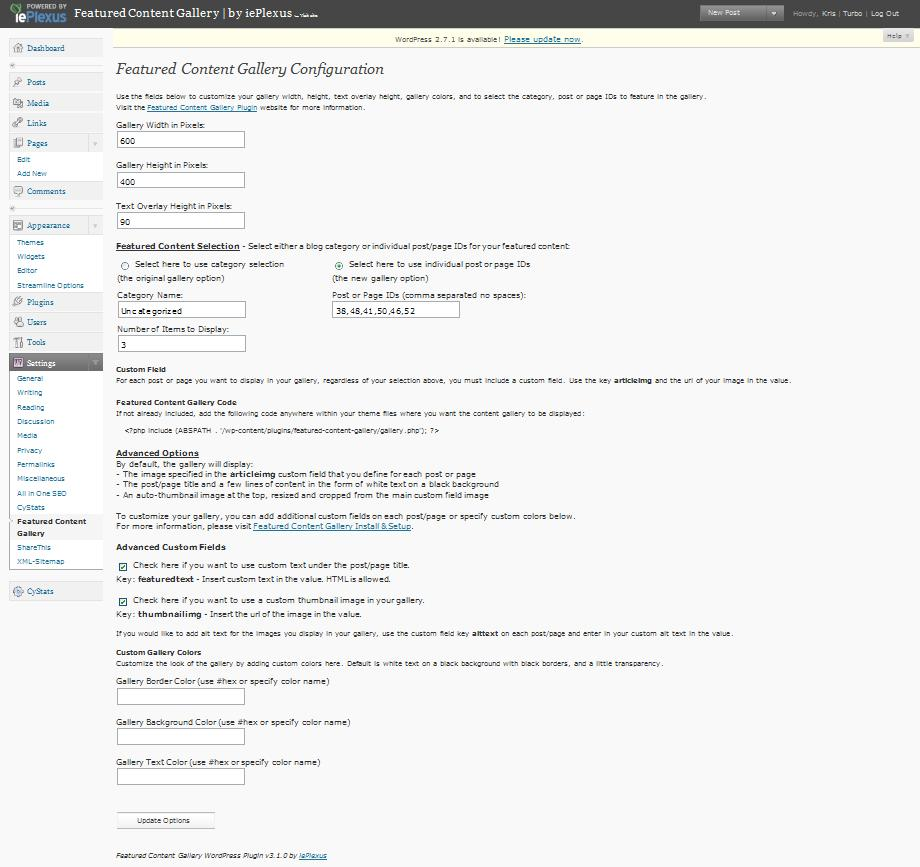
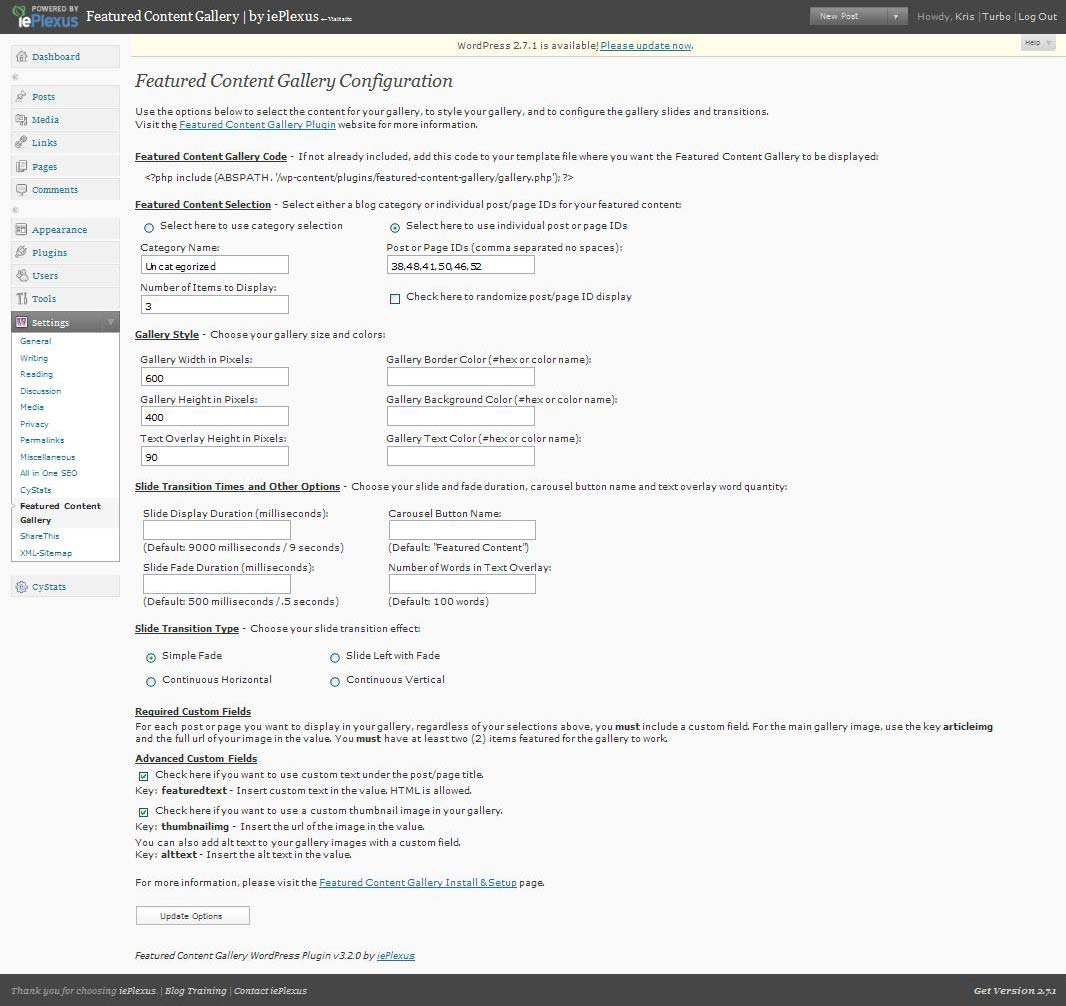
git-svn-id: https://plugins.svn.wordpress.org/featured-content-gallery/trunk@100797 b8457f37-d9ea-0310-8a92-e5e31aec5664

Changed region(s): [[0.0, 0.0, 1.0, 1.0], [0.7609, 0.436, 0.8522, 0.4671]]

diff --git a/options.php b/options.php
@@ -4,125 +4,169 @@ $location = $options_page; // Form Action URI
 
 <div class="wrap">
 	<h2>Featured Content Gallery Configuration</h2>
-	<p>Use the fields below to customize your gallery width, height, text overlay height, gallery colors, and to select the category, post or page IDs to feature in the gallery.<br /> 
+	<p>Use the options below to select the content for your gallery, to style your gallery, and to configure the gallery slides and transitions.<br /> 
     Visit the <a href="http://www.featuredcontentgallery.com">Featured Content Gallery Plugin</a> website for more information.</p>
-	
-    <div style="margin-left:0px;">
-    <form method="post" action="options.php"><?php wp_nonce_field('update-options'); ?>
+        <form method="post" action="options.php"><?php wp_nonce_field('update-options'); ?>
 		<fieldset name="general_options" class="options">
-
-        Gallery Width in Pixels:<br />
-		<div style="margin:0;padding:0;">
-        <input name="gallery-width" id="gallery-width" size="25" value="<?php echo get_option('gallery-width'); ?>"></input>
-        </div><br />
-        
-        Gallery Height in Pixels:<br />
-		<div style="margin:0;padding:0;">
-        <input name="gallery-height" id="gallery-height" size="25" value="<?php echo get_option('gallery-height'); ?>"></input> 
-        </div><br />
-        
-        Text Overlay Height in Pixels:<br />
-		<div style="margin:0;padding:0;">
-        <input name="gallery-info" id="gallery-info" size="25" value="<?php echo get_option('gallery-info'); ?>"></input> 
-        </div><br />
-        
+        <div style="padding-top: 15px"></div>
+        <u><strong>Featured Content Gallery Code</strong></u> - If not already included, add this code to your template file where you want the Featured Content Gallery to be displayed:<br />
+        <blockquote>&lt;&#63;php include &#40;ABSPATH &#46; '/wp-content/plugins/featured-content-gallery/gallery.php'&#41;&#59; &#63;&#62;</blockquote>
+        <div style="padding-top: 10px"></div>
         <?php  $galleryoldway = (get_option('gallery-way') == 'old' || get_option('gallery-way') == '') ? "checked" : ""; 
         		   $gallerynewway = get_option('gallery-way') == 'new' ? "checked" : ""; 
         ?>
         <u><strong>Featured Content Selection</strong></u> - Select either a blog category or individual post/page IDs for your featured content:<br />
-        <div style="padding-top: 10px"></div><div>
-        <table width="688" border="1" cellpadding="0">
-<tr>
-    			<td width="325">
-    <input type="radio" name="gallery-way" id="gallery-way" size="25" value="old"  <?php print $galleryoldway; ?>>
-        			Select here to use category selection<br />
-        <span class="style1">(the original gallery option)</span>		</td>
-  		  <td width="351">
-<input type="radio" name="gallery-way" id="gallery-way" size="25" value="new"  <?php print $gallerynewway; ?>>
-        			Select here to use individual post or page IDs<br />
-        <span class="style1">(the new gallery option)</span>        </td>
-		  </tr>
-  			<tr>
-    			<td>
-                    <div style="padding-top: 7px"></div><div>
-                	Category Name:<br />
-        			<input name="gallery-category" id="gallery-category" size="25" value="<?php echo get_option('gallery-category'); ?>"></input> 
-                </td>
-    			<td>
-                    <div style="padding-top: 7px"></div>
-                    <div>
-          Post or Page IDs <span class="style1">(comma separated no spaces)</span>:<br />
+        <div style="padding-top: 5px"></div>
+        <table width="690" border="0" cellpadding="0" cellspacing="7">
+        <tr>
+    	<td width="330">
+        <input type="radio" name="gallery-way" id="gallery-way" size="25" value="old"  <?php print $galleryoldway; ?>>
+        			Select here to use category selection
+        </td>
+  		<td width="360">
+        <input type="radio" name="gallery-way" id="gallery-way" size="25" value="new"  <?php print $gallerynewway; ?>>
+        			Select here to use individual post or page IDs
+        </td>
+		</tr>
+  	    <tr>
+    	<td>
+        Category Name:<br />
+                    <input name="gallery-category" id="gallery-category" size="25" value="<?php echo get_option('gallery-category'); ?>"></input> 
+        </td>
+    	<td>
+        Post or Page IDs <span class="style1">(comma separated no spaces)</span>:<br />
                     <input name="gallery-items-pages" id="gallery-items-pages" size="25" value="<?php echo get_option('gallery-items-pages'); ?>"></input>
-                </td>
-  			</tr>
-  			<tr>
-    			<td>
-                    <div style="padding-top: 5px"></div><div>
-                	Number of Items to Display:<br />
+        </td>
+  	    </tr>
+  	    <tr>
+        <td>
+        Number of Items to Display:<br />
         			<input name="gallery-items" id="gallery-items" size="25" value="<?php echo get_option('gallery-items'); ?>"></input> 
-                </td>
-    			<td>&nbsp;
-                	
-                </td>
-  			</tr>
+        </td>
+        <td>
+        <?php $checked3 = get_option('gallery-randomize-pages') ? "checked" : ""; ?>
+                    <input type="checkbox" name="gallery-randomize-pages" id="gallery-randomize-pages" <?php print $checked3 ?>> 
+        Check here to randomize post/page ID display
+        </td>
+  	    </tr>
 		</table>
-        
-        <p><strong>Custom Field</strong><br />
-        For each post or page you want to display in your gallery, regardless of your selection above, you must include a custom field. Use the key <strong>articleimg</strong> and the url of your image in the value.<br /><br />
-        
-        <strong>Featured Content Gallery Code</strong><br />
-        If not already included, add the following code anywhere within your theme files where you want the content gallery to be displayed:<br />
-		
-        <blockquote>&lt;&#63;php include &#40;ABSPATH &#46; '/wp-content/plugins/featured-content-gallery/gallery.php'&#41;&#59; &#63;&#62;</blockquote>
-        <div style="padding-top: 8px"></div>
-        <strong><u>Advanced Options</u></strong><br />
-        By default, the gallery will display:<br />
-        - The image specified in the <strong>articleimg</strong> custom field that you define for each post or page<br />
-        - The post/page title and a few lines of content in the form of white text on a black background<br />
-        - An auto-thumbnail image at the top, resized and cropped from the main custom field image<br /><br />
-        
-        To customize your gallery, you can add additional custom fields on each post/page or specify custom colors below.<br />
-        For more information, please visit  <a href="http://www.featuredcontentgallery.com/install-setup">Featured Content Gallery Install & Setup</a>.<br />
-        <br />
-        
-        <strong>Advanced Custom Fields</strong><br /></p>
-				<?php $checked1 = get_option('gallery-use-featured-content') ? "checked" : ""; ?>
-        <div style="margin:0;padding:0;">
+        <div style="padding-top: 10px"></div>
+        <u><strong>Gallery Style</strong></u> - Choose your gallery size and colors:<br />
+        <div style="padding-top: 10px"></div>
+        <table width="690" border="0" cellpadding="0" cellspacing="7">
+        <tr>
+    	<td width="330">
+        Gallery Width in Pixels:<br />
+        <input name="gallery-width" id="gallery-width" size="25" value="<?php echo get_option('gallery-width'); ?>"></input>
+        </td>
+  		<td width="360">
+        Gallery Border Color (#hex or color name):<br />
+        <input name="gallery-border-color" id="gallery-border-color" size="25" value="<?php echo get_option('gallery-border-color'); ?>"></input> 
+        </td>
+		</tr>
+  	    <tr>
+    	<td>
+        Gallery Height in Pixels:<br />
+        <input name="gallery-height" id="gallery-height" size="25" value="<?php echo get_option('gallery-height'); ?>"></input>
+        </td>
+    	<td>
+        Gallery Background Color (#hex or color name):<br />
+        <input name="gallery-bg-color" id="gallery-bg-color" size="25" value="<?php echo get_option('gallery-bg-color'); ?>"></input>   
+        </td>
+  	    </tr>
+  	    <tr>
+        <td>
+        Text Overlay Height in Pixels:<br />
+        <input name="gallery-info" id="gallery-info" size="25" value="<?php echo get_option('gallery-info'); ?>"></input> 
+        </td>
+        <td>
+        Gallery Text Color (#hex or color name):<br />
+        <input name="gallery-text-color" id="gallery-text-color" size="25" value="<?php echo get_option('gallery-text-color'); ?>"></input> 
+        </td>
+  	    </tr>
+		</table>
+        <div style="padding-top: 10px"></div>
+        <u><strong>Slide Transition Times and Other Options</strong></u> - Choose your slide and fade duration, carousel button name and text overlay word quantity:<br />
+        <div style="padding-top: 10px"></div>
+        <table width="690" border="0" cellpadding="0" cellspacing="10">
+        <tr>
+    	<td width="330">
+        Slide Display Duration (milliseconds):<br />
+        <input name="gallery-delay" id="gallery-delay" size="25" value="<?php echo get_option('gallery-delay'); ?>"></input><br />
+        (Default: 9000 milliseconds / 9 seconds)
+        </td>
+  		<td width="360">
+        Carousel Button Name:<br />
+        <input name="gallery-fcg-button" id="gallery-fcg-button" size="25" value="<?php echo get_option('gallery-fcg-button'); ?>"></input><br />
+        (Default: "Featured Content")
+        </td>
+		</tr>
+  	    <tr>
+    	<td>
+        Slide Fade Duration (milliseconds):<br />
+        <input name="gallery-fade-duration" id="gallery-fade-duration" size="25" value="<?php echo get_option('gallery-fade-duration'); ?>"></input><br />
+        (Default: 500 milliseconds / .5 seconds)
+        </td>
+    	<td>
+        Number of Words in Text Overlay:<br />
+        <input name="gallery-rss-word-quantity" id="gallery-rss-word-quantity" size="25" value="<?php echo get_option('gallery-rss-word-quantity'); ?>"></input><br />
+        (Default: 100 words)
+        </td>
+  	    </tr>
+		</table>
+        <div style="padding-top: 10px"></div>
+        <u><strong>Slide Transition Type</strong></u> - Choose your slide transition effect:<br />
+        <div style="padding-top: 10px"></div>
+        <?php  $galleryfade = (get_option('gallery-default-transaction') == 'fade' || get_option('gallery-default-transaction') == '') ? "checked" : ""; 
+        	   $galleryfadeslideleft = get_option('gallery-default-transaction') == 'fadeslideleft' ? "checked" : "";
+        	   $gallerycontinuoushorizontal = get_option('gallery-default-transaction') == 'continuoushorizontal' ? "checked" : "";  
+        	   $gallerycontinuousvertical = get_option('gallery-default-transaction') == 'continuousvertical' ? "checked" : ""; 
+        ?>
+        <table width="500" border="0" cellpadding="0" cellspacing="10">
+        <tr>
+    	<td width="250">
+        <input type="radio" name="gallery-default-transaction" id="gallery-default-transaction" size="25" value="fade"  <?php print $galleryfade; ?>> Simple Fade
+        </td>
+  		<td width="250">
+		<input type="radio" name="gallery-default-transaction" id="gallery-default-transaction" size="25" value="fadeslideleft"  <?php print $galleryfadeslideleft; ?>> Slide Left with Fade
+        </td>
+		</tr>
+  	    <tr>
+    	<td>
+		<input type="radio" name="gallery-default-transaction" id="gallery-default-transaction" size="25" value="continuoushorizontal"  <?php print $gallerycontinuoushorizontal; ?>> Continuous Horizontal
+        </td>
+    	<td>
+		<input type="radio" name="gallery-default-transaction" id="gallery-default-transaction" size="25" value="continuousvertical"  <?php print $gallerycontinuousvertical; ?>> Continuous Vertical
+        </td>
+  	    </tr>
+		</table>
+        <div style="padding-top: 10px"></div>
+        <u><strong>Required Custom Fields</strong></u>
+        <div style="padding-top: 5px"></div>
+        For each post or page you want to display in your gallery, regardless of your selections above, you <strong>must</strong> include a custom field. For the main gallery image, use the key <strong>articleimg</strong> and the full url of your image in the value. You <strong>must</strong> have at least two (2) items featured for the gallery to work.
+        <div style="padding-top: 10px"></div>
+        <u><strong>Advanced Custom Fields</strong></u>
+        <div style="padding-top: 5px"></div>
+		<?php $checked1 = get_option('gallery-use-featured-content') ? "checked" : ""; ?>
         <input type="checkbox" name="gallery-use-featured-content" id="gallery-use-featured-content" <?php print $checked1 ?>> 
         Check here if you want to use custom text under the post/page title.<br />
         Key: <strong>featuredtext</strong> - Insert custom text in the value. HTML is allowed.
-        </div><br />
-        
+        <div style="padding-top: 10px"></div>
         <?php $checked2 = get_option('gallery-use-thumb-image') ? "checked" : ""; ?>
-		<div style="margin:0;padding:0;">
         <input type="checkbox" name="gallery-use-thumb-image" id="gallery-use-thumb-image" <?php print $checked2 ?>> 
         Check here if you want to use a custom thumbnail image in your gallery.<br />
         Key: <strong>thumbnailimg</strong> - Insert the url of the image in the value.
-        </div>
-		<p>If you would like to add alt text for the images you display in your gallery, use the custom field key <strong>alttext</strong> on each post/page and enter in your custom alt text in the value.<br />
-	    </p>
-		<p><strong>Custom Gallery Colors</strong><br />
-        Customize the look of the gallery by adding custom colors here. Default is white text on a black background with black borders, and a little transparency.</p>
-        Gallery Border Color <span class="style1">(use #hex or specify color name)</span><br />
-		<div style="margin:0;padding:0;">
-        <input name="gallery-border-color" id="gallery-border-color" size="25" value="<?php echo get_option('gallery-border-color'); ?>"></input>   
-        </div><br />
-        
-        Gallery Background Color <span class="style1">(use #hex or specify color name)</span><br />
-		<div style="margin:0;padding:0;">
-        <input name="gallery-bg-color" id="gallery-bg-color" size="25" value="<?php echo get_option('gallery-bg-color'); ?>"></input>   
-        </div><br />
-       
-        Gallery Text Color <span class="style1">(use #hex or specify color name)</span><br />
-		<div style="margin:0;padding:0;">
-        <input name="gallery-text-color" id="gallery-text-color" size="25" value="<?php echo get_option('gallery-text-color'); ?>"></input>   
-        </div><br />
-                
+        <div style="padding-top: 5px"></div>
+		You can also add alt text to your gallery images with a custom field.<br />
+        Key: <strong>alttext</strong> - Insert the alt text in the value.
+        <div style="padding-top: 15px"></div>
+        For more information, please visit the <a href="http://www.featuredcontentgallery.com/install-setup">Featured Content Gallery Install & Setup</a> page.
+                        
         <input type="hidden" name="action" value="update" />
-        <input type="hidden" name="page_options" value="gallery-width,gallery-height,gallery-info,gallery-items,gallery-border-color,gallery-bg-color,gallery-text-color,gallery-use-featured-content,gallery-use-thumb-image,gallery-way,gallery-items-pages,gallery-category" />
+        <input type="hidden" name="page_options" value="gallery-width,gallery-height,gallery-info,gallery-items,gallery-border-color,gallery-bg-color,gallery-text-color,gallery-use-featured-content,gallery-use-thumb-image,gallery-way,gallery-items-pages,gallery-category,gallery-fcg-button,gallery-fade-duration,gallery-delay,gallery-randomize-pages,gallery-rss-word-quantity,gallery-default-transaction" />
 
 		</fieldset>
 		<p class="submit"><input type="submit" name="Submit" value="<?php _e('Update Options') ?>" /></p>
-        <p><em>Featured Content Gallery WordPress Plugin v3.1.1 by <a href="http://www.ieplexus.com">iePlexus</a></em></p>
+        <p><em>Featured Content Gallery WordPress Plugin v3.2.0 by <a href="http://www.ieplexus.com">iePlexus</a></em></p>
 	</form>      
 </div>

diff --git a/gallery.php b/gallery.php
@@ -18,8 +18,14 @@
     
     <div id="myGallery">
     <?php 
+    $imgthumb = get_option('gallery-use-thumb-image') ? "thumbnailimg" : "articleimg";
+    $wordquantity = get_option('gallery-rss-word-quantity') ?  get_option('gallery-rss-word-quantity') : 100;
     if (get_option('gallery-way') == 'new')	{//new way
 			 $arr = split(",",get_option('gallery-items-pages'));
+			 if (get_option('gallery-randomize-pages'))
+			 {
+			 	 shuffle($arr);
+			 }
 			 foreach ($arr as $post_or_page_id)   
 			 { 
 				 get_a_post($post_or_page_id); ?>
@@ -31,10 +37,9 @@
 					  <?php 
 					  } else {
 					  ?>
-					     <p><?php the_content_rss('', 0, '', 100); ?></p>
+					     <p><?php the_content_rss('', 0, '', $wordquantity); ?></p>
 					  <?php
 						}
-						$imgthumb = get_option('gallery-use-thumb-image') ? "thumbnailimg" : "articleimg";
 						?>
 					  <a href="<?php the_permalink() ?>" title="Read More" class="open"></a>
 					  <img src="<?php $key="articleimg"; echo get_post_meta($post->ID, $key, true); ?>" alt="<?php $key="alttext"; echo get_post_meta($post->ID, $key, true); ?>" class="full" />
@@ -57,10 +62,9 @@
 					  <?php 
 					  } else {
 					  ?>
-					     <p><?php the_content_rss('', 0, '', 100); ?></p>
+					     <p><?php the_content_rss('', 0, '', $wordquantity); ?></p>
 					  <?php
 						}
-						$imgthumb = get_option('gallery-use-thumb-image') ? "thumbnailimg" : "articleimg";
 						?>
 					  <a href="<?php the_permalink() ?>" title="Read More" class="open"></a>
 					  <img src="<?php $key="articleimg"; echo get_post_meta($post->ID, $key, true); ?>" alt="<?php $key="alttext"; echo get_post_meta($post->ID, $key, true); ?>" class="full" />

diff --git a/content-gallery.php b/content-gallery.php
@@ -3,7 +3,7 @@
 Plugin Name: Featured Content Gallery
 Plugin URI: http://www.featuredcontentgallery.com
 Description: Used to create a customizable rotating image gallery anywhere within your WordPress site. <a href="http://www.featuredcontentgallery.com" target="_blank">FeaturedContentGallery.com</a>: plugin page, instructions, gallery and support.
-Version: 3.1.1
+Version: 3.2.0
 Author: iePlexus
 Author URI: http://www.ieplexus.com
 */
@@ -43,7 +43,8 @@ function gallery_styles() {
     <link rel=\"stylesheet\" href=\"".$gallery_path."css/jd.gallery.css.php\" type=\"text/css\" media=\"screen\" charset=\"utf-8\"/>
 	<link rel=\"stylesheet\" href=\"".$gallery_path."css/jd.gallery.css\" type=\"text/css\" media=\"screen\" charset=\"utf-8\"/>
 	<script type=\"text/javascript\" src=\"".$gallery_path."scripts/mootools.v1.11.js\"></script>
-	<script type=\"text/javascript\" src=\"".$gallery_path."scripts/jd.gallery.js\"></script>
+	<script type=\"text/javascript\" src=\"".$gallery_path."scripts/jd.gallery.js.php\"></script>
+	<script type=\"text/javascript\" src=\"".$gallery_path."scripts/jd.gallery.transitions.js\"></script>
 	<!-- end gallery scripts -->\n";
 	
 	/* Output $galleryscript as text for our web pages: */
